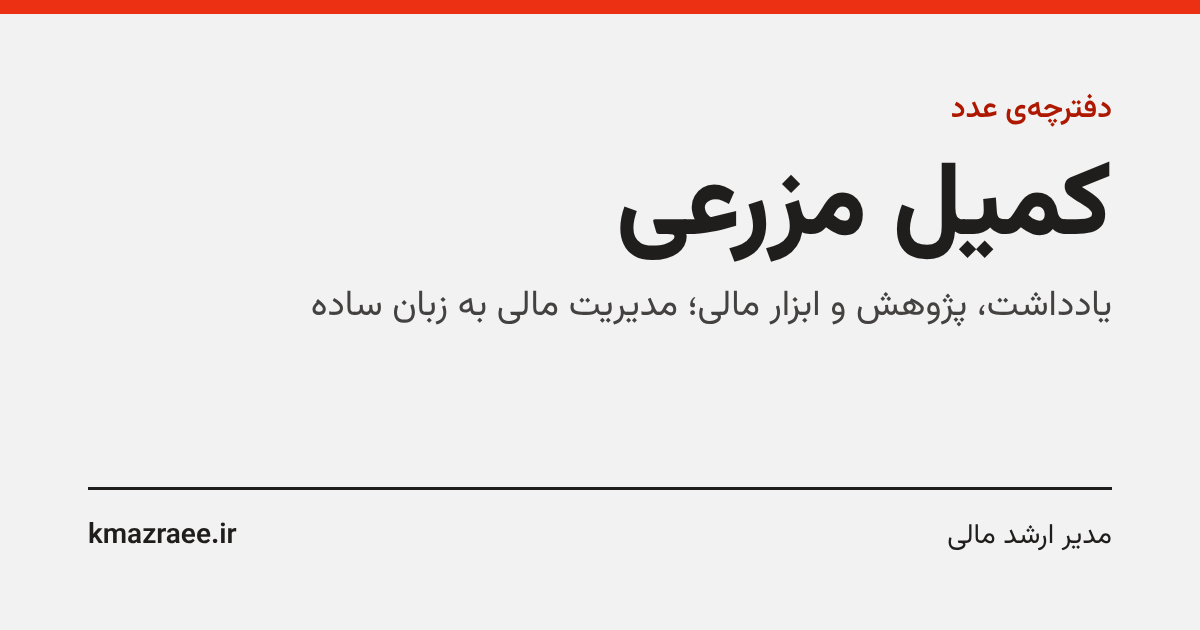
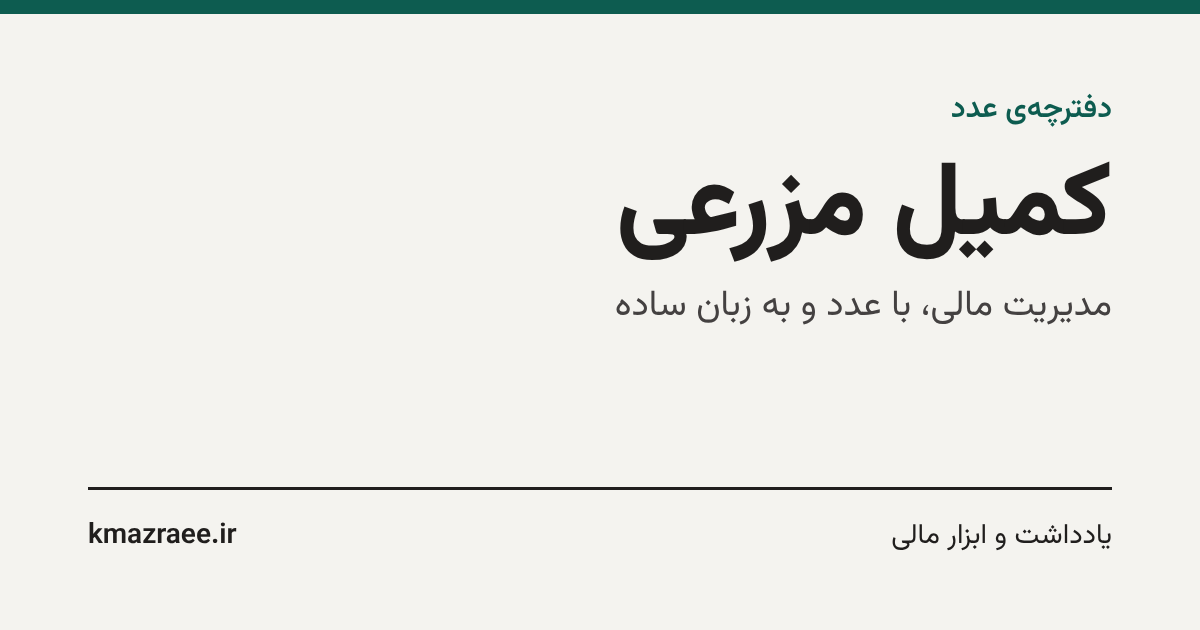
Remove job title and city from the site
Drops the role setting, its mentions on the home page, post author box,
contact page and JSON-LD, and the job title from the share image.

Claude-Session: https://claude.ai/code/session_01Q14N1cKaGsBbDk8Sbv727q

diff --git a/index.html b/index.html
@@ -8,7 +8,7 @@ layout: default
   <section class="card hero w2">
     <span class="chip">دفترچهی عدد</span>
     <h1>مدیریت مالی، با عدد و به زبان ساده.</h1>
-    <p>من {{ site.author }} هستم، {{ site.role | split: " · " | first }}. اینجا دربارهی مدلسازی مالی، ارزشگذاری و سرمایهگذاری مینویسم و ابزارهایی میسازم که هر روز به کارم میآیند.</p>
+    <p>من {{ site.author }} هستم. اینجا دربارهی مدلسازی مالی، ارزشگذاری و سرمایهگذاری مینویسم و ابزارهایی میسازم که هر روز به کارم میآیند.</p>
     <div class="actions">
       <a class="btn btn-primary" href="{{ '/posts/' | relative_url }}">خواندن یادداشتها</a>
       <a class="btn btn-secondary" href="{{ '/tools/' | relative_url }}">ابزارهای مالی</a>

diff --git a/_layouts/default.html b/_layouts/default.html
@@ -39,7 +39,7 @@
 </script>
 {% elsif page.url == '/' %}
 <script type="application/ld+json">
-{"@context":"https://schema.org","@type":"WebSite","name":{{ site.title | jsonify }},"description":{{ site.description | jsonify }},"url":{{ '/' | absolute_url | jsonify }},"inLanguage":"fa","author":{"@type":"Person","name":{{ site.author | jsonify }},"jobTitle":"مدیر ارشد مالی","url":{{ '/' | absolute_url | jsonify }},"email":{{ site.email | prepend: 'mailto:' | jsonify }}}}
+{"@context":"https://schema.org","@type":"WebSite","name":{{ site.title | jsonify }},"description":{{ site.description | jsonify }},"url":{{ '/' | absolute_url | jsonify }},"inLanguage":"fa","author":{"@type":"Person","name":{{ site.author | jsonify }},"url":{{ '/' | absolute_url | jsonify }},"email":{{ site.email | prepend: 'mailto:' | jsonify }}}}
 </script>
 {% endif %}
 <link rel="alternate" type="application/rss+xml" title="{{ site.title }}" href="{{ '/feed.xml' | relative_url }}">

diff --git a/_layouts/post.html b/_layouts/post.html
@@ -19,7 +19,7 @@ layout: default
     <nav class="card toc" id="toc" aria-label="فهرست مطالب" hidden><span class="toc-title">در این یادداشت</span></nav>
     <section class="card author">
       <b>{{ site.author }}</b>
-      <p>{{ site.role | split: " · " | first }}؛ دربارهی مدلسازی مالی، ارزشگذاری و سرمایهگذاری مینویسد.</p>
+      <p>دربارهی مدلسازی مالی، ارزشگذاری و سرمایهگذاری مینویسد.</p>
     </section>
     {%- if page.category -%}
     {%- assign same = site.categories[page.category] | where_exp: "p", "p.url != page.url" -%}

diff --git a/contact.html b/contact.html
@@ -12,7 +12,6 @@ permalink: /contact/
       {% if site.linkedin != "" %}<a class="channel" href="{{ site.linkedin }}"><span>لینکدین</span><span>پروفایل ←</span></a>{% endif %}
       {% if site.telegram != "" %}<a class="channel" href="{{ site.telegram }}"><span>تلگرام</span><span>پیام ←</span></a>{% endif %}
     </div>
-    <p class="small" style="font-size:14px;margin:16px 0 0">تهران</p>
   </div>
   <form class="card w2" id="contact-form" data-email="{{ site.email }}">
     <div class="field"><label for="f-name">نام</label><input class="input" id="f-name" required></div>
